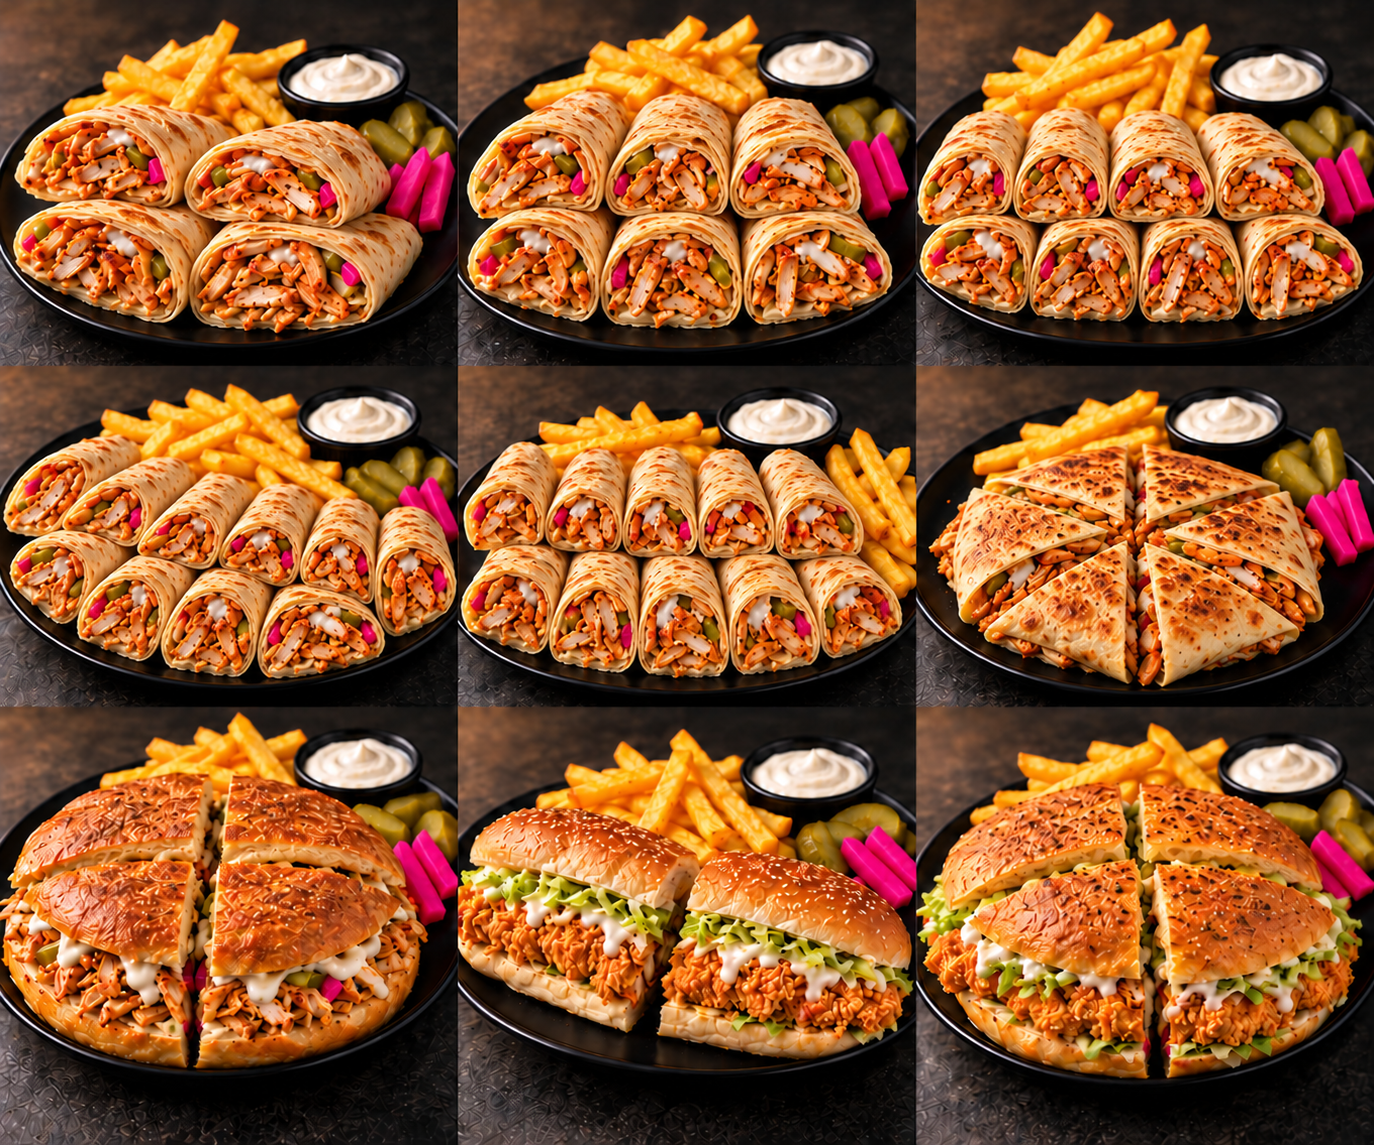
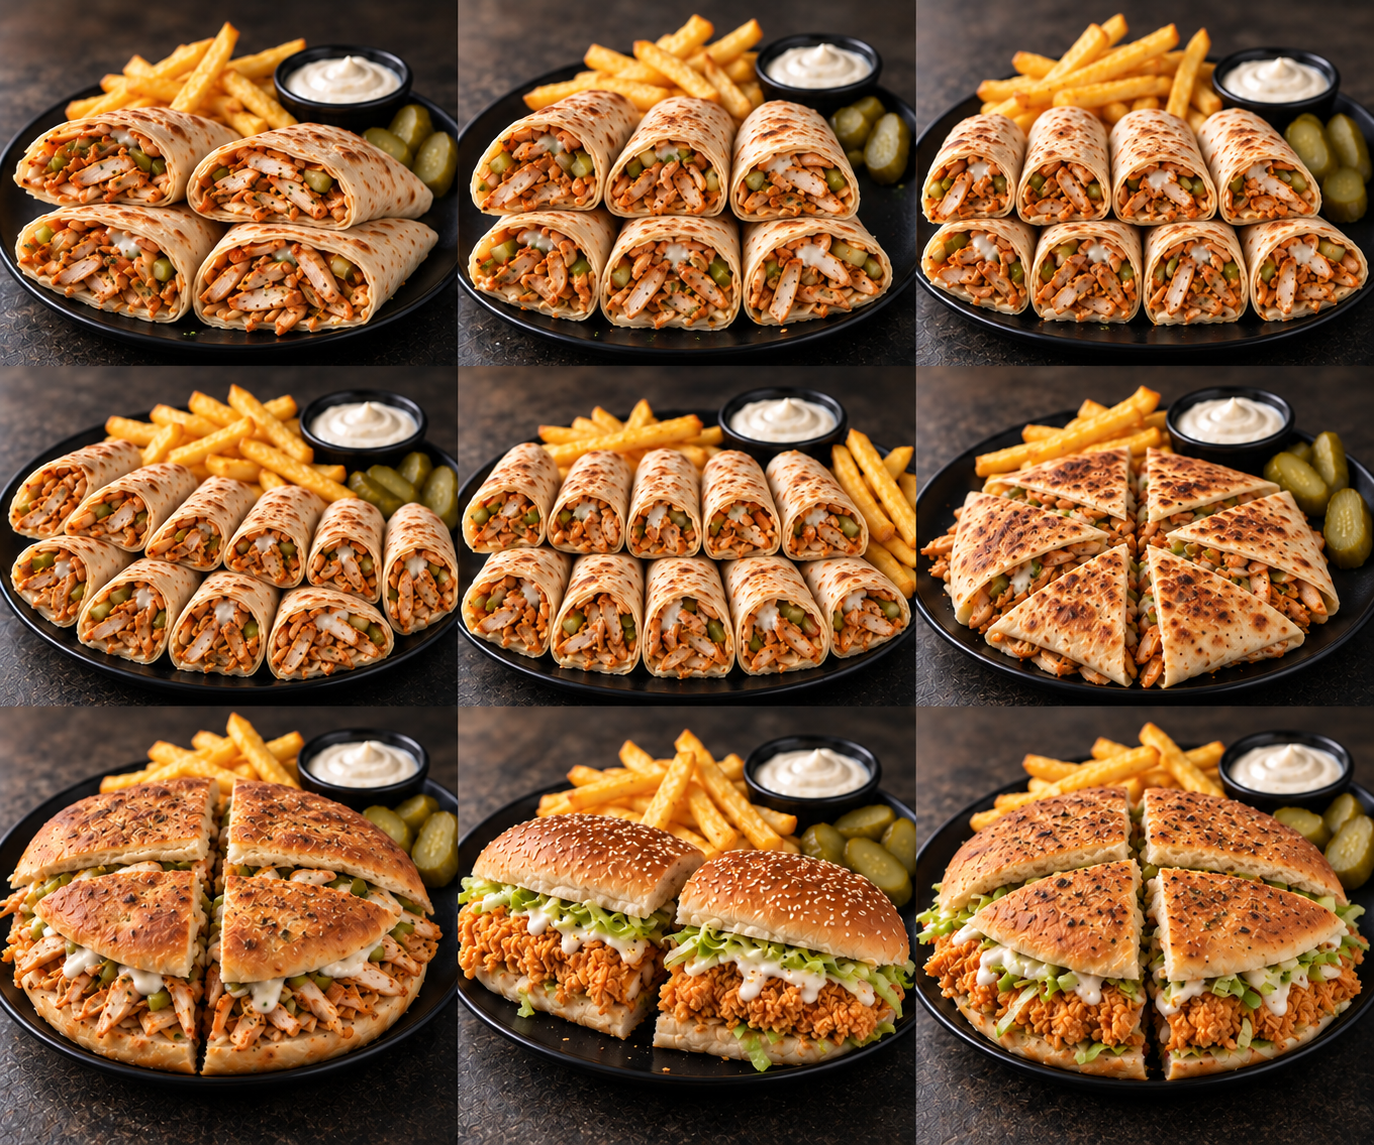
Refresh menu photography with natural lighting and corrected food details

diff --git a/index.html b/index.html
@@ -1,7 +1,7 @@
 <!doctype html>
-<html lang="ar" dir="rtl"><head><meta charset="UTF-8"><meta name="viewport" content="width=device-width,initial-scale=1"><meta name="theme-color" content="#20231e"><title>جمعة بلد | المنيو</title><meta name="description" content="منيو مطعم جمعة بلد في عمّان، شارع الجامعة. شاورما، زنجر، زرب ومندي ووجبات عائلية."><link rel="stylesheet" href="style.css?v=20261011g"><link rel="preconnect" href="https://fonts.googleapis.com"><link rel="preconnect" href="https://fonts.gstatic.com" crossorigin><link href="https://fonts.googleapis.com/css2?family=Noto+Kufi+Arabic:wght@400;500;600;700;800;900&display=swap" rel="stylesheet"><script src="app.js?v=20261011g" defer></script></head>
+<html lang="ar" dir="rtl"><head><meta charset="UTF-8"><meta name="viewport" content="width=device-width,initial-scale=1"><meta name="theme-color" content="#20231e"><title>جمعة بلد | المنيو</title><meta name="description" content="منيو مطعم جمعة بلد في عمّان، شارع الجامعة. شاورما، زنجر، زرب ومندي ووجبات عائلية."><link rel="stylesheet" href="style.css?v=20261011h"><link rel="preconnect" href="https://fonts.googleapis.com"><link rel="preconnect" href="https://fonts.gstatic.com" crossorigin><link href="https://fonts.googleapis.com/css2?family=Noto+Kufi+Arabic:wght@400;500;600;700;800;900&display=swap" rel="stylesheet"><script src="app.js?v=20261011h" defer></script></head>
 <body><header class="site-header"><a href="#" class="brand"><span class="brand-disc">جمعة<br>بلد</span><span>مطعم جمعة بلد<small>طعم البلد… ولمّة أهلها</small></span></a><nav aria-label="التنقل الرئيسي"><a href="#menu">المنيو</a><a href="#gathering">لمّة العيلة</a><a href="#location">وين تلاقينا</a></nav><button class="language-button" id="language-toggle" type="button" lang="en" aria-label="Switch to English">English</button></header>
-<main><section class="hero"><div class="hero-copy"><span class="eyebrow">ـــ شاورما • زنجر • زرب ومندي</span><h1>اللمّة الحلوة،<br>بدها <em>جمعة بلد.</em></h1><p>من أول لقمة شاورما لآخر حبّة رز.<br>اختار اللي بتحبّه، وخلّي اللمّة علينا.</p><div class="hero-actions"><a class="primary" href="#menu">تصفّح المنيو <span>↖</span></a></div><div class="hero-social"><span class="social-title">خلّينا على تواصل</span><div class="social-links"><a class="review-link" href="https://search.google.com/local/writereview?placeid=ChIJLZDkCQChHBURVUHYXxtAlao" target="_blank" rel="noopener noreferrer"><span class="social-icon google-icon" aria-hidden="true">G</span><span class="social-label">ذقت اللمّة؟ احكيلنا رأيك</span></a><a class="instagram-link" href="https://www.instagram.com/jamaetbalad/" target="_blank" rel="noopener noreferrer"><svg class="social-icon" aria-hidden="true" viewBox="0 0 24 24" fill="none" stroke="currentColor" stroke-width="1.7"><rect x="3" y="3" width="18" height="18" rx="5"/><circle cx="12" cy="12" r="4"/><circle cx="17.5" cy="6.5" r="1" fill="currentColor" stroke="none"/></svg><span class="social-label">إنستغرام</span></a><a class="facebook-link" href="https://www.facebook.com/jamaetbalad/" target="_blank" rel="noopener noreferrer"><span class="social-icon facebook-icon" aria-hidden="true">f</span><span class="social-label">فيسبوك</span></a></div></div><div class="hero-bottom"><span>منيو لكل الأذواق</span><i></i><span>وجبات فردية وعائلية</span></div></div><figure class="hero-visual"><img src="shawarma-family-hd.png" alt="صينية شاورما عائلية مع البطاطا" fetchpriority="high"><div class="round-stamp">الطعم اللي<strong>بجمعنا</strong></div></figure></section>
+<main><section class="hero"><div class="hero-copy"><span class="eyebrow">ـــ شاورما • زنجر • زرب ومندي</span><h1>اللمّة الحلوة،<br>بدها <em>جمعة بلد.</em></h1><p>من أول لقمة شاورما لآخر حبّة رز.<br>اختار اللي بتحبّه، وخلّي اللمّة علينا.</p><div class="hero-actions"><a class="primary" href="#menu">تصفّح المنيو <span>↖</span></a></div><div class="hero-social"><span class="social-title">خلّينا على تواصل</span><div class="social-links"><a class="review-link" href="https://search.google.com/local/writereview?placeid=ChIJLZDkCQChHBURVUHYXxtAlao" target="_blank" rel="noopener noreferrer"><span class="social-icon google-icon" aria-hidden="true">G</span><span class="social-label">ذقت اللمّة؟ احكيلنا رأيك</span></a><a class="instagram-link" href="https://www.instagram.com/jamaetbalad/" target="_blank" rel="noopener noreferrer"><svg class="social-icon" aria-hidden="true" viewBox="0 0 24 24" fill="none" stroke="currentColor" stroke-width="1.7"><rect x="3" y="3" width="18" height="18" rx="5"/><circle cx="12" cy="12" r="4"/><circle cx="17.5" cy="6.5" r="1" fill="currentColor" stroke="none"/></svg><span class="social-label">إنستغرام</span></a><a class="facebook-link" href="https://www.facebook.com/jamaetbalad/" target="_blank" rel="noopener noreferrer"><span class="social-icon facebook-icon" aria-hidden="true">f</span><span class="social-label">فيسبوك</span></a></div></div><div class="hero-bottom"><span>منيو لكل الأذواق</span><i></i><span>وجبات فردية وعائلية</span></div></div><figure class="hero-visual"><img src="shawarma-family-hd.png?v=20261011h" alt="صينية شاورما عائلية مع البطاطا" fetchpriority="high"><span class="photo-sticker hero-sticker" aria-hidden="true">جمعة<br>بلد</span><div class="round-stamp">الطعم اللي<strong>بجمعنا</strong></div></figure></section>
 <div class="ribbon" aria-hidden="true"><span>جمعة ولقمة طيبة</span><span>شاورما على الأصول</span><span>للجوع… وللجمعة</span><span>جمعة بلد</span></div>
 <section class="menu-section" id="menu"><div class="section-heading"><div><span class="eyebrow red">منيو جمعة بلد</span><h2>شو عبالك اليوم؟</h2></div><p>أسعار المنيو المرفق بالدينار الأردني.<br>السعر والتوفّر النهائيان عند تأكيد المطعم.</p></div><p id="photo-note" class="photo-note">صور توضيحية للأصناف؛ حجم الوجبة حسب اختيارك.</p><div class="tabs" id="tabs" aria-label="أقسام المنيو"></div><div class="menu-layout"><div class="items-grid" id="menu-items" aria-live="polite"></div></div></section>
 <section class="family" id="gathering"><div><span class="eyebrow">للصحاب والعيلة</span><h2>كبّر اللمّة.<br><em>والباقي علينا.</em></h2><p>32، 48 أو 64 قطعة شاورما، مع البطاطا<br>والمثومة والمخلل. كل واحد إله نصيب.</p><a class="primary" href="#menu" id="family-menu">شوف الوجبات العائلية <span>↖</span></a></div><div class="family-numbers"><span>لمّة صغيرة، طعم كبير</span><strong>32<small>قطعة</small></strong><div><span>وجبة شاورما عائلية</span><b>7.00 <small>د.أ</small></b></div></div></section>

diff --git a/style.css b/style.css
@@ -16,3 +16,5 @@ html[lang="en"] body{font-family:Arial,sans-serif}html[lang="en"] .brand-disc{fo
 .hero-social{margin-top:26px;padding-top:20px;border-top:1px solid #ffffff26;max-width:510px}.social-title{display:block;font-size:12px;color:#c5c7bc;margin-bottom:11px}.social-links{display:flex;gap:9px;flex-wrap:wrap}.social-links a{display:inline-flex;align-items:center;justify-content:center;gap:8px;border:1px solid #ffffff30;border-radius:8px;padding:10px 12px;min-height:44px;font-size:12px;color:#f4f3ed;background:#ffffff06}.social-links a:hover{background:#ffffff16;border-color:#ffc52d}.social-links .review-link{background:#ffc52d12;border-color:#ffc52d66;color:#ffda6b}.social-icon{width:19px;height:19px;flex-shrink:0;display:inline-flex;align-items:center;justify-content:center;font-family:Arial,sans-serif;font-size:20px;font-weight:700;line-height:1}.facebook-icon{font-size:24px}.hero-bottom{margin-top:25px}html[lang="en"] .social-links a{font-size:13px}@media(max-width:760px){.hero-social{margin-top:23px}.social-links{gap:8px}.social-links a{padding:10px 11px}}
 /* Menu photography and WhatsApp ordering */
 body{padding-bottom:95px}.food-card{padding:0;overflow:hidden}.food-photo{position:relative;width:100%;aspect-ratio:1.2;background-image:url('assets/menu-food.png?v=20261011c');background-size:400% 400%;background-position:var(--photo-x) var(--photo-y);background-repeat:no-repeat;background-color:#292620}.drinks-photo{background-image:url('assets/menu-drinks.png');background-size:200% 200%}.photo-sticker{position:absolute;bottom:12px;inset-inline-end:12px;display:flex;flex-direction:column;justify-content:center;text-align:center;width:57px;height:57px;border-radius:50%;background:#dc2427;color:#fff;border:2px solid #fff0c7;font-family:'Noto Kufi Arabic',Tahoma,sans-serif;font-size:17px;font-weight:900;line-height:1.3;transform:rotate(-8deg);box-shadow:0 3px 10px #0004}.food-copy{padding:18px;display:flex;flex-direction:column;flex:1}.food-copy h3{margin-top:0}.food-copy .food-bottom{margin-top:auto}.food-bottom strong{font-size:18px}.add-item{padding:10px 14px;min-height:44px;background:#f7e6df;color:#a91f24;border-radius:6px;font-size:14px;font-weight:700}.photo-note{font-size:12px;color:#777064;margin-top:16px}.order-bar{position:fixed;bottom:22px;left:50%;transform:translateX(-50%);display:flex;align-items:center;justify-content:space-between;gap:25px;background:#24573c;color:white;padding:17px 25px;border:1px solid #ffffff50;border-radius:12px;box-shadow:0 7px 30px #0003;z-index:8;min-width:300px;font-weight:700;max-width:calc(100% - 32px)}.order-bar>span:first-child{font-size:23px}.cart-row{display:flex;align-items:center;gap:12px;padding:17px 0;border-bottom:1px solid #e3dfd6;font-size:14px}.cart-row>div:first-child{flex:1}.cart-row small{display:block;color:#736d62;margin-top:5px}.cart-row .quantity button{width:36px;height:40px}.remove-item{background:none;font-size:25px;min-width:36px;min-height:44px;color:#a91f24}.cart-empty{padding:22px 0;color:#736d62}.whatsapp-order{width:100%;padding:16px;background:#24573c;color:#fff;border-radius:7px;font-weight:700}.whatsapp-order:disabled{opacity:.45;cursor:not-allowed}.sr-only{position:absolute;width:1px;height:1px;padding:0;margin:-1px;overflow:hidden;clip:rect(0,0,0,0);white-space:nowrap;border:0}.order-dialog input:focus-visible,.order-dialog textarea:focus-visible,.order-dialog select:focus-visible{outline:2px solid #b88b22;outline-offset:2px}@media(max-width:760px){.food-copy{padding:13px}.food-copy h3{font-size:14px}.food-bottom{gap:8px;flex-wrap:wrap}.food-bottom strong{font-size:17px}.add-item{padding:9px 12px}.photo-sticker{width:46px;height:46px;font-size:14px;bottom:8px;inset-inline-end:8px}.order-bar{bottom:14px;width:calc(100% - 32px);min-width:0;padding:13px 19px}.cart-row{gap:7px;font-size:13px}.cart-row .quantity{gap:6px}}
+
+.hero-visual{background:#292620}.hero-sticker{width:72px;height:72px;font-size:22px;bottom:22px;inset-inline-end:22px;z-index:3}

diff --git a/app.js b/app.js
@@ -80,7 +80,7 @@ function photo(id){
  const [sheet,index]=itemPhotos[id],atlas=photoSheets[sheet],cols=atlas.x.length-1;
  const col=index%cols,row=Math.floor(index/cols),left=atlas.x[col]+2,top=atlas.y[row]+2;
  const width=atlas.x[col+1]-left-2,height=atlas.y[row+1]-top-2;
- return `<div class="food-photo" role="img" aria-label="${itemName(id)}" style="background-image:url('assets/menu-${sheet}.png?v=20261011f');background-size:${atlas.width/width*100}% ${atlas.height/height*100}%;--photo-x:${left/(atlas.width-width)*100}%;--photo-y:${top/(atlas.height-height)*100}%"><span class="photo-sticker" aria-hidden="true">جمعة<br>بلد</span></div>`;
+ return `<div class="food-photo" role="img" aria-label="${itemName(id)}" style="background-image:url('assets/menu-${sheet}.png?v=20261011h');background-size:${atlas.width/width*100}% ${atlas.height/height*100}%;--photo-x:${left/(atlas.width-width)*100}%;--photo-y:${top/(atlas.height-height)*100}%"><span class="photo-sticker" aria-hidden="true">جمعة<br>بلد</span></div>`;
 }
 function renderMenu(){
  const en=language==='en',labels=en?englishGroups:groups;
